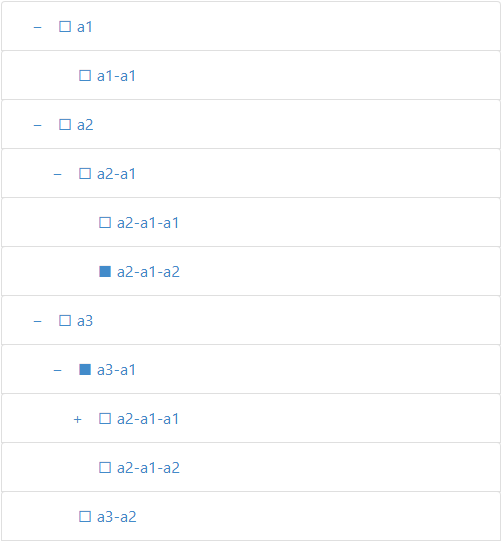
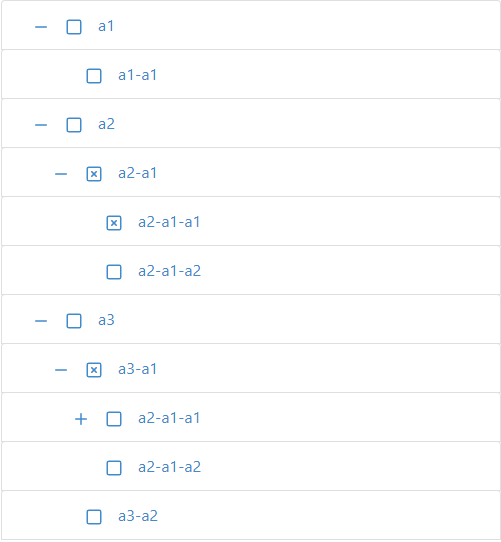
update

diff --git a/src/TreeNode.js b/src/TreeNode.js
@@ -2,6 +2,7 @@ import React from 'react'
 import TreeNodeList from './TreeNodeList'
 import { isFunction } from 'util';
 import { cloneTreeData } from './Util'
+import { Plus, Minus, Square, XSquare } from 'react-feather'
 
 class TreeNode extends React.Component {
 
@@ -68,11 +69,14 @@ class TreeNode extends React.Component {
             indent.push(<span key={Math.random()} className='indent'></span>);
         }
 
-        let colorCssStyle = {color: this.props.data.color};
+        //let colorCssStyle = {color: this.props.data.color};
+        let iconSize = 18;
         let listItemCssStyle = this.props.data.showBorder ? {backgroundColor: this.props.data.backgroundColor} : {backgroundColor: this.props.data.backgroundColor, border: 'none'};
         let haveChild = nodes.length > 0;
-        let iconExpanded = expanded ? <span className='icon' style={colorCssStyle}>&#x2212;</span> : <span className='icon' style={colorCssStyle}>&#x002B;</span>;
-        let iconSelected = selected ? <span className='icon' style={colorCssStyle} onClick={this.handleSelect}>&#x2B1B;</span> : <span className='icon' style={colorCssStyle} onClick={this.handleSelect}>&#x2B1C;</span>;
+        //let iconExpanded = expanded ? <span className='icon' style={colorCssStyle}>&#x2212;</span> : <span className='icon' style={colorCssStyle}>&#x002B;</span>;
+        let iconExpanded = expanded ? <span className='icon'><Minus color={this.props.data.color} size={iconSize}/></span> : <span className='icon'><Plus color={this.props.data.color} size={iconSize}/></span>;
+        //let iconSelected = selected ? <span className='icon' style={colorCssStyle} onClick={this.handleSelect}>&#x2B1B;</span> : <span className='icon' style={colorCssStyle} onClick={this.handleSelect}>&#x2B1C;</span>;
+        let iconSelected = selected ? <span className='icon' onClick={this.handleSelect}><XSquare color={this.props.data.color} size={iconSize}/></span> : <span className='icon' onClick={this.handleSelect}><Square color={this.props.data.color} size={iconSize}/></span>;
 
         return(
             <span>
@@ -80,7 +84,7 @@ class TreeNode extends React.Component {
                     {indent}
                     {haveChild ? iconExpanded : <span className="empty"></span>}
                     {this.props.data.showSelect ? iconSelected : ''}
-                    <span style={colorCssStyle}>{text}</span>
+                    <span style={{color: this.props.data.color, marginLeft: '10px'}}>{text}</span>
                 </li>
                 {expanded ? <TreeNodeList key={Math.random()} data={nodes} treeData={this.props.treeData} level={level + 1} onExpand={this.props.onExpand} onSelect={this.props.onSelect} /> : <span></span>}
             </span>

diff --git a/src/TreeView.css b/src/TreeView.css
@@ -14,8 +14,8 @@
 }
 
 .treeview span.empty {
-	margin-left: 20.94px;
-	margin-right: 5px;
+	margin-left: 28px;
+    margin-right: 5px;
 }
 
 .icon path {
